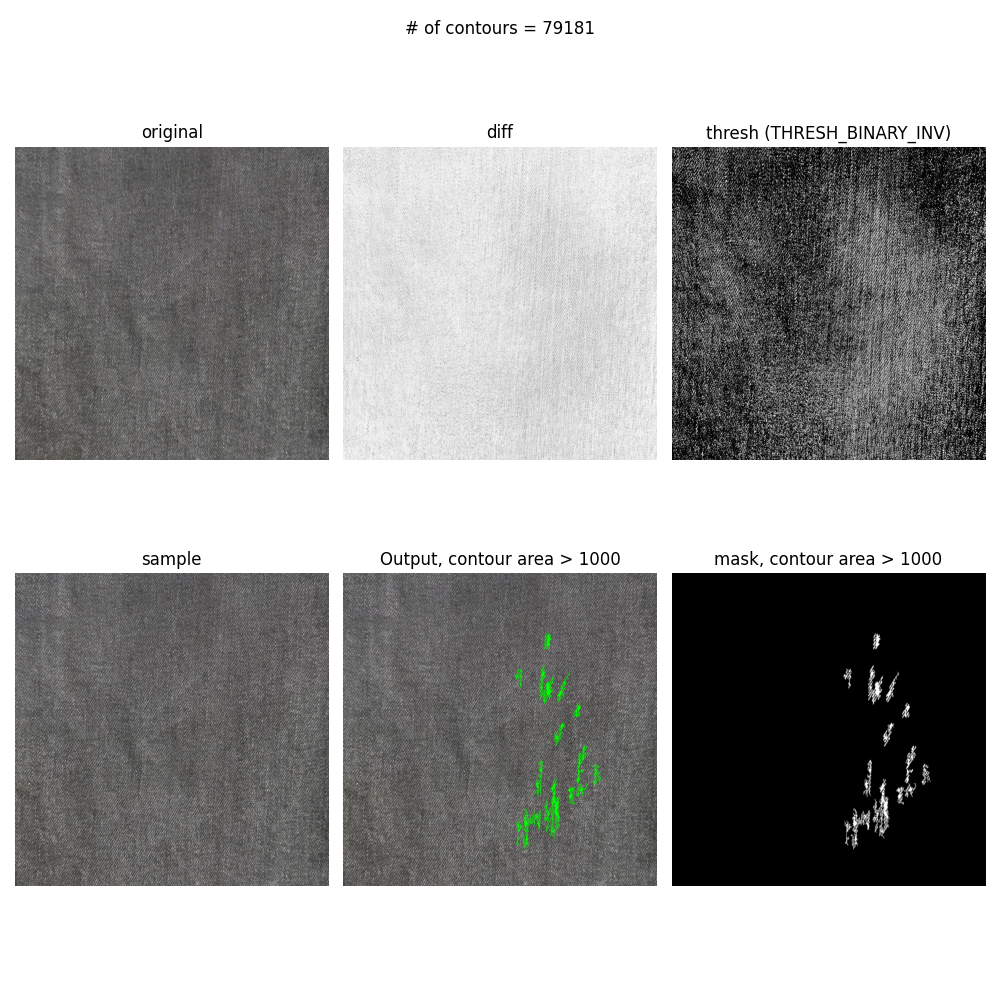
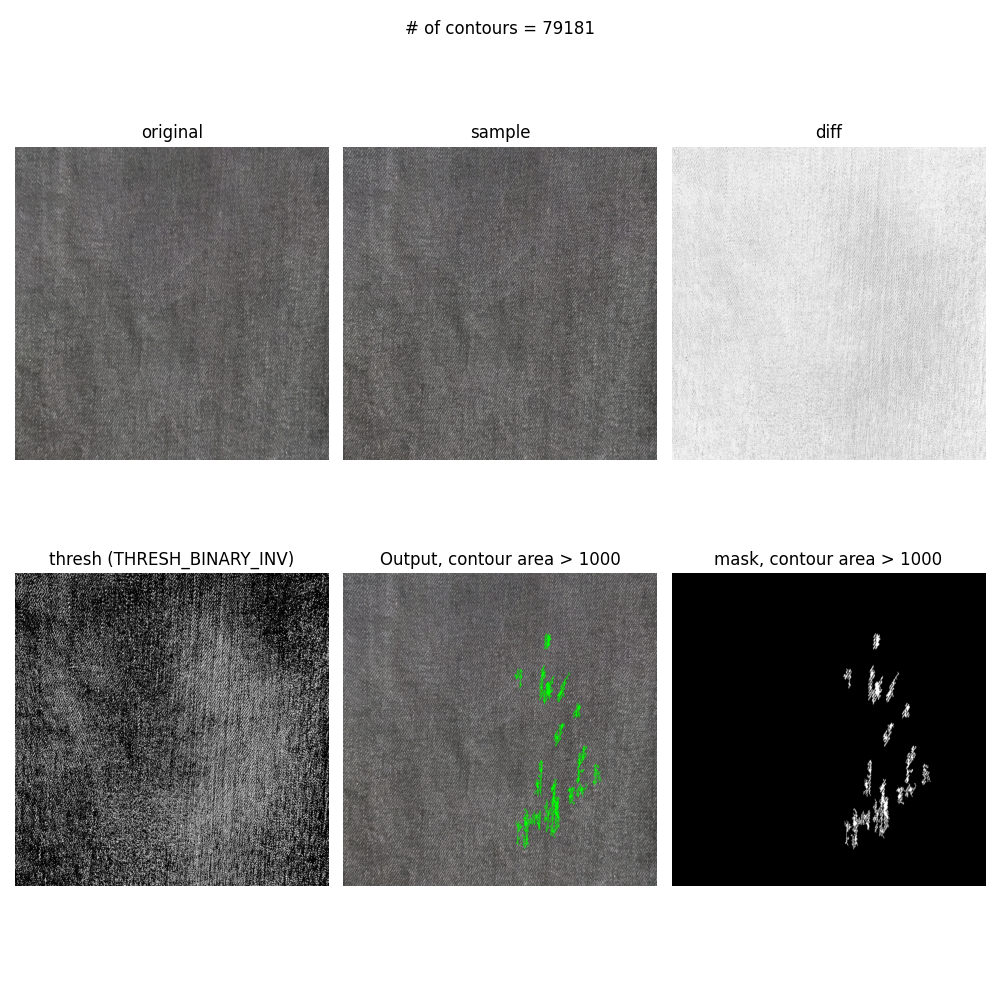
output structure changed & complex samples added

Changed region(s): [[0.341, 0.124, 0.992, 0.465], [0.0, 0.527, 0.341, 0.899]]

diff --git a/src/process.py b/src/process.py
@@ -28,9 +28,9 @@ def process(original, sample, bias=1000):
 
     results = [
         ["original", original],
+        ["sample", sample],
         ["diff", diff],
         ["thresh (THRESH_BINARY_INV)", thresh],
-        ["sample", sample],
         [f'Output, contour area > {bias}', filled_sample],
         [f'mask, contour area > {bias}', mask]
     ]
@@ -57,11 +57,11 @@ def process(original, sample, bias=1000):
 
             count = count + 1
     plt.tight_layout()
-    plt.savefig("ref")
+    plt.savefig("output_sample")
     plt.show()
-    
+
 original = cv.imread("../photos/tshirt_original.jpg")
-sample = cv.imread("../photos/tshirt_sample_2.jpg")
+sample = cv.imread("../photos/tshirt_sample_1.jpg")
 
 bias = 1000
 

diff --git a/src/gui.py b/src/gui.py
@@ -1,0 +1,11 @@
+from tkinter import *
+
+# root window 
+root = Tk()
+
+# creating a label
+header_label = Label(root, text="Color Comparison of two images")
+header_label.pack()
+
+# show window
+root.mainloop()
